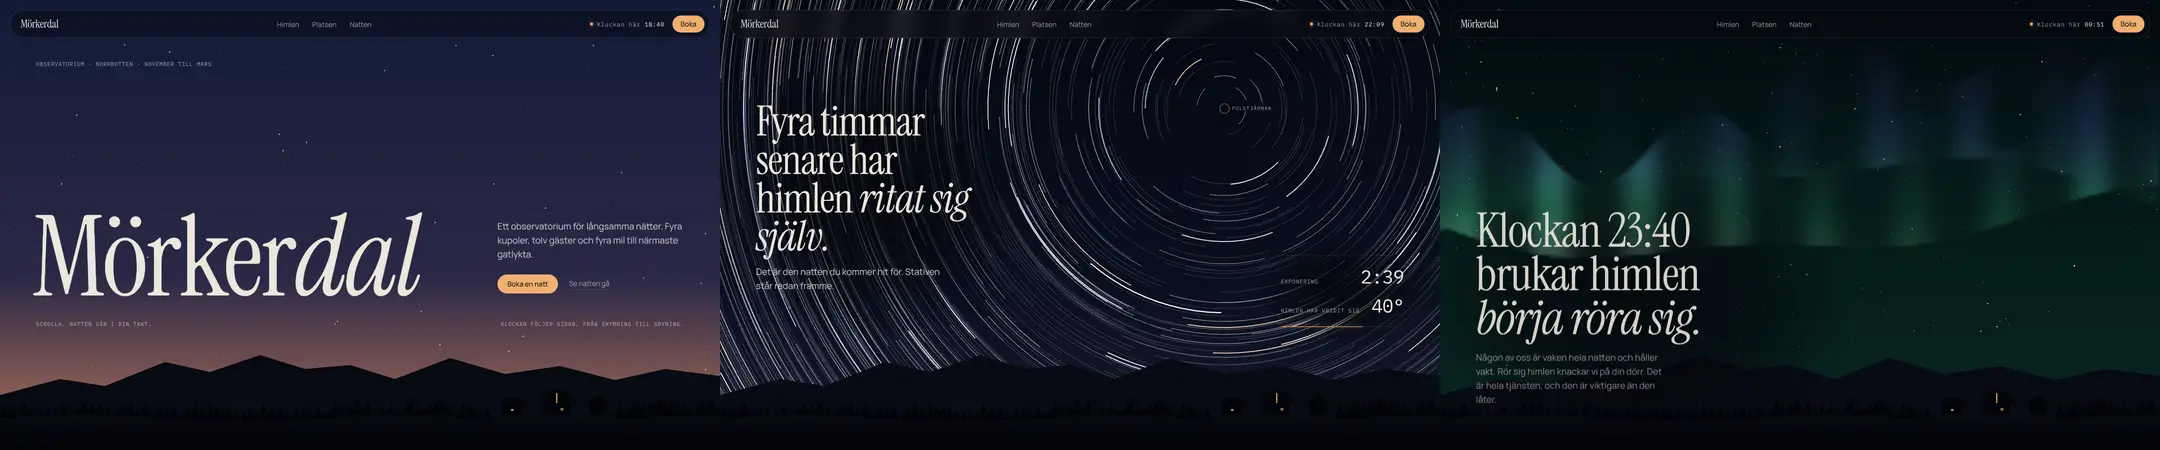
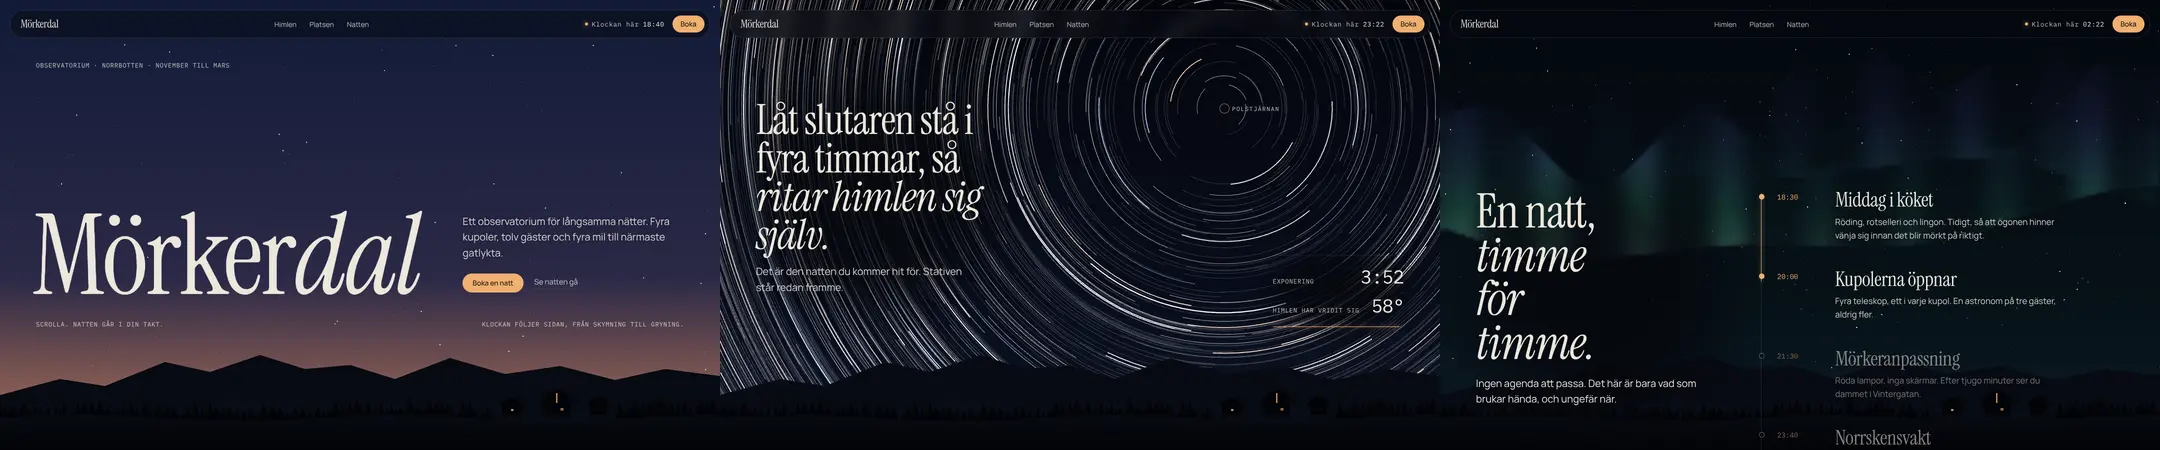
Mörkerdal: make the copy easier to read
Body copy at full ink instead of 62 percent, meta text 11 to 12.5px,
larger program and paper text, unlit program rows at 55 percent,
stronger scrims (also at dawn), and a soft text shadow under copy
over the sky. On phones the Polstjärnan marker moves into the gap
between statement and meter, and the plate caption no longer wraps.

Claude-Session: https://claude.ai/code/session_01XdASbRog22jE6xUYCS6WyS

diff --git a/demos/morkerdal/index.html b/demos/morkerdal/index.html
@@ -15,13 +15,13 @@
   :root {
     --night: #05070d;
     --ink: #ece7dc;
-    --muted: rgba(236, 231, 220, 0.62);
+    --muted: rgba(236, 231, 220, 0.8);
     --line: rgba(236, 231, 220, 0.12);
     --ember: #f0b071;
     --aurora: #8ff0c0;
     --paper: #eee9df;
     --paper-ink: #15161b;
-    --paper-muted: #55565e;
+    --paper-muted: #44454c;
     --serif: 'Instrument Serif', 'Times New Roman', serif;
     --sans: 'Manrope', system-ui, sans-serif;
     --mono: 'IBM Plex Mono', ui-monospace, monospace;
@@ -38,7 +38,7 @@
   html:not(.js) #sky { display: none; }
   .horizon { position: fixed; left: 0; right: 0; bottom: 0; height: 26vh; min-height: 150px; pointer-events: none; }
   .horizon svg { width: 100%; height: 100%; display: block; }
-  #pole { position: fixed; left: 0; top: 0; pointer-events: none; opacity: 0; transition: opacity 0.8s ease; font-family: var(--mono); font-size: 10px; letter-spacing: 0.12em; text-transform: uppercase; color: var(--muted); white-space: nowrap; }
+  #pole { position: fixed; left: 0; top: 0; pointer-events: none; opacity: 0; transition: opacity 0.8s ease; font-family: var(--mono); font-size: 12px; letter-spacing: 0.12em; text-transform: uppercase; color: var(--muted); white-space: nowrap; }
   #pole::before { content: ''; position: absolute; left: -9px; top: -9px; width: 18px; height: 18px; border: 1px solid rgba(240, 176, 113, 0.7); border-radius: 50%; }
   #pole span { position: absolute; left: 16px; top: -6px; }
   #pole.on { opacity: 1; }
@@ -50,7 +50,7 @@
   nav .links a { text-decoration: none; transition: color 0.2s ease; }
   nav .links a:hover { color: var(--ink); }
   nav .right { display: flex; align-items: center; gap: 16px; }
-  .clock { font-family: var(--mono); font-size: 12px; letter-spacing: 0.06em; color: var(--muted); display: flex; align-items: center; gap: 8px; white-space: nowrap; }
+  .clock { font-family: var(--mono); font-size: 13px; letter-spacing: 0.06em; color: var(--muted); display: flex; align-items: center; gap: 8px; white-space: nowrap; }
   .clock::before { content: ''; width: 6px; height: 6px; border-radius: 50%; background: var(--ember); box-shadow: 0 0 10px var(--ember); }
   .clock b { font-weight: 400; color: var(--ink); font-variant-numeric: tabular-nums; }
   .btn { display: inline-flex; align-items: center; gap: 10px; padding: 12px 20px; border-radius: 999px; background: var(--ember); color: #1a1006; font: 500 14px/1 var(--sans); text-decoration: none; border: 0; cursor: pointer; transition: background-color 0.25s ease, transform 0.25s ease; }
@@ -65,15 +65,17 @@
 
   /* clip, not hidden: scrims bleed sideways, and on phones any bleed widens the layout viewport and zooms the page out. clip keeps sticky working */
   main { position: relative; z-index: 2; overflow-x: clip; }
-  .meta { font-family: var(--mono); font-size: 11px; letter-spacing: 0.08em; text-transform: uppercase; color: var(--muted); line-height: 1.6; }
+  .meta { font-family: var(--mono); font-size: 12.5px; letter-spacing: 0.06em; text-transform: uppercase; color: var(--muted); line-height: 1.6; }
   .pad { padding-inline: clamp(20px, 5vw, 80px); }
   h1, h2, .big { font-family: var(--serif); font-weight: 400; letter-spacing: -0.02em; line-height: 0.92; }
   h2 { font-size: clamp(44px, 6.6vw, 104px); }
   h2 em, h1 em, .big em { font-style: italic; }
-  .lede { font-size: clamp(16px, 1.25vw, 19px); line-height: 1.55; color: var(--muted); max-width: 34ch; }
+  .lede { font-size: clamp(17px, 1.4vw, 21px); line-height: 1.55; color: var(--ink); opacity: 0.9; max-width: 36ch; }
+  .lede, .program p, .paper .cols p { text-shadow: 0 1px 12px rgba(5, 7, 13, 0.6); }
+  .paper .cols p { text-shadow: none; }
   .scrim { position: relative; }
-  .scrim::before { content: ''; position: absolute; inset: -22% -16%; z-index: -1; pointer-events: none; background: radial-gradient(closest-side, rgba(5, 7, 13, 0.9), rgba(5, 7, 13, 0.62) 55%, transparent); }
-  .dawn .scrim::before { inset: -30% -40%; background: radial-gradient(closest-side, rgba(12, 16, 34, 0.5), rgba(12, 16, 34, 0.25) 60%, transparent); }
+  .scrim::before { content: ''; position: absolute; inset: -22% -16%; z-index: -1; pointer-events: none; background: radial-gradient(closest-side, rgba(5, 7, 13, 0.94), rgba(5, 7, 13, 0.75) 55%, transparent); }
+  .dawn .scrim::before { inset: -30% -40%; background: radial-gradient(closest-side, rgba(12, 16, 34, 0.72), rgba(12, 16, 34, 0.42) 60%, transparent); }
 
   .rise { opacity: 0; transform: translateY(28px); transition: opacity 1s ease, transform 1.1s cubic-bezier(0.16, 1, 0.3, 1); }
   .rise.in { opacity: 1; transform: none; }
@@ -84,9 +86,9 @@
   .hero .kicker { grid-column: 1 / -1; }
   .hero h1 { grid-column: 1; grid-row: 3; font-size: clamp(76px, 15.5vw, 250px); line-height: 0.8; margin-left: -0.04em; }
   .hero .intro { grid-column: 2; grid-row: 3; align-self: end; justify-self: end; padding-bottom: 1.2vw; }
-  .hero .intro .lede { color: var(--ink); opacity: 0.86; }
+
   .cta { display: flex; align-items: center; gap: 22px; margin-top: 26px; flex-wrap: wrap; }
-  .textlink { font-size: 14px; color: var(--muted); text-decoration: none; border-bottom: 1px solid var(--line); padding-bottom: 3px; transition: color 0.2s ease, border-color 0.2s ease; }
+  .textlink { font-size: 15px; color: var(--muted); text-decoration: none; border-bottom: 1px solid var(--line); padding-bottom: 3px; transition: color 0.2s ease, border-color 0.2s ease; }
   .textlink:hover { color: var(--ink); border-color: var(--ink); }
   .hero .foot { grid-column: 1 / -1; grid-row: 4; display: flex; justify-content: space-between; gap: 24px; margin-top: 36px; }
 
@@ -99,7 +101,7 @@
   html:not(.js) .step + .step { margin-top: 48px; }
   .step .big { font-size: clamp(42px, 5.8vw, 92px); max-width: 12ch; }
   .step p { margin-top: 18px; }
-  .step .lede { color: var(--ink); opacity: 0.88; }
+
   .meter { min-width: 230px; padding: 18px 0 0; border-top: 1px solid var(--line); }
   .meter .row { display: flex; justify-content: space-between; align-items: baseline; gap: 24px; }
   .meter .row + .row { margin-top: 10px; }
@@ -111,12 +113,13 @@
   .paper { position: relative; z-index: 4; background: var(--paper); color: var(--paper-ink); border-radius: 28px; margin: 0 12px; padding-block: clamp(80px, 12vh, 150px) clamp(56px, 8vh, 100px); }
   .paper .grid { display: grid; grid-template-columns: 1.15fr 1fr; gap: clamp(40px, 6vw, 110px); align-items: start; }
   .paper h2 { max-width: 9ch; }
-  .paper .cols { display: grid; grid-template-columns: 1fr 1fr; gap: 32px; margin-top: clamp(48px, 7vh, 88px); font-size: 15px; line-height: 1.6; color: var(--paper-muted); }
-  .paper .cols span { display: block; font-family: var(--mono); font-size: 11px; color: var(--paper-ink); margin-bottom: 12px; }
+  .paper .cols { display: grid; grid-template-columns: 1fr 1fr; gap: 32px; margin-top: clamp(48px, 7vh, 88px); font-size: 17px; line-height: 1.6; color: var(--paper-muted); }
+  .paper .cols span { display: block; font-family: var(--mono); font-size: 12.5px; color: var(--paper-ink); margin-bottom: 12px; }
   .plate { margin: 0; }
   .plate .art { aspect-ratio: 4 / 5; border-radius: 18px; overflow: hidden; background: #070a14; }
   .plate canvas { width: 100%; height: 100%; display: block; }
-  .plate figcaption { display: flex; justify-content: space-between; gap: 16px; margin-top: 14px; font-family: var(--mono); font-size: 11px; letter-spacing: 0.06em; text-transform: uppercase; color: var(--paper-muted); }
+  .plate figcaption span:last-child { white-space: nowrap; }
+  .plate figcaption { display: flex; justify-content: space-between; gap: 16px; margin-top: 14px; font-family: var(--mono); font-size: 12.5px; letter-spacing: 0.05em; text-transform: uppercase; color: var(--paper-muted); }
   .stats { display: grid; grid-template-columns: repeat(4, 1fr); margin-top: clamp(64px, 10vh, 120px); border-top: 1px solid rgba(21, 22, 27, 0.14); }
   .stats div { padding: 22px 20px 0 0; }
   .stats div + div { padding-left: 20px; border-left: 1px solid rgba(21, 22, 27, 0.14); }
@@ -137,26 +140,26 @@
   .program { list-style: none; padding: 0; position: relative; --p: 0; }
   .program::before, .program::after { content: ''; position: absolute; left: 0; top: 8px; bottom: 8px; width: 1px; background: var(--line); }
   .program::after { background: var(--ember); bottom: auto; height: calc(var(--p) * (100% - 16px)); box-shadow: 0 0 8px var(--ember); }
-  .program li { position: relative; display: grid; grid-template-columns: 96px 1fr; gap: 20px; padding: 0 0 clamp(36px, 6vh, 64px) 32px; opacity: 0.38; transition: opacity 0.6s ease; }
+  .program li { position: relative; display: grid; grid-template-columns: 96px 1fr; gap: 20px; padding: 0 0 clamp(36px, 6vh, 64px) 32px; opacity: 0.55; transition: opacity 0.6s ease; }
   .program li::before { content: ''; position: absolute; left: -4px; top: 9px; width: 9px; height: 9px; border-radius: 50%; background: var(--night); border: 1px solid var(--muted); transition: background-color 0.4s ease, border-color 0.4s ease; }
   .program li.lit { opacity: 1; }
   .program li.lit::before { background: var(--ember); border-color: var(--ember); }
   html:not(.js) .program li { opacity: 1; }
-  .program time { font-family: var(--mono); font-size: 13px; padding-top: 6px; color: var(--ember); }
+  .program time { font-family: var(--mono); font-size: 14px; padding-top: 6px; color: var(--ember); }
   .program h3 { font-family: var(--serif); font-weight: 400; font-size: clamp(30px, 2.8vw, 44px); line-height: 1; letter-spacing: -0.01em; }
-  .program p { margin-top: 10px; color: var(--muted); line-height: 1.6; max-width: 44ch; }
+  .program p { margin-top: 10px; font-size: 17px; color: var(--ink); opacity: 0.88; line-height: 1.6; max-width: 44ch; }
 
   /* ---------- 6. dawn ---------- */
   .dawn { min-height: 100svh; display: flex; flex-direction: column; justify-content: center; padding-top: 140px; padding-bottom: calc(26vh + 24px); }
   .dawn .inner { max-width: 760px; }
   .dawn h2 { font-size: clamp(56px, 9vw, 150px); }
-  .dawn .lede { margin-top: 22px; color: var(--ink); opacity: 0.86; max-width: 46ch; }
+  .dawn .lede { margin-top: 22px; max-width: 46ch; }
   form { display: grid; grid-template-columns: 1fr 1fr 1.4fr auto; gap: 10px; margin-top: 40px; }
   label { display: block; }
   label .meta { display: block; margin-bottom: 8px; }
-  input, select { width: 100%; height: 48px; background: rgba(5, 7, 13, 0.55); border: 1px solid rgba(236, 231, 220, 0.2); border-radius: 12px; padding: 0 14px; color: var(--ink); font: 400 15px var(--sans); backdrop-filter: blur(10px); -webkit-backdrop-filter: blur(10px); transition: border-color 0.2s ease; }
+  input, select { width: 100%; height: 48px; background: rgba(5, 7, 13, 0.7); border: 1px solid rgba(236, 231, 220, 0.2); border-radius: 12px; padding: 0 14px; color: var(--ink); font: 400 15px var(--sans); backdrop-filter: blur(10px); -webkit-backdrop-filter: blur(10px); transition: border-color 0.2s ease; }
   input:hover, select:hover { border-color: rgba(236, 231, 220, 0.4); }
-  input::placeholder { color: rgba(236, 231, 220, 0.45); }
+  input::placeholder { color: rgba(236, 231, 220, 0.6); }
   form .btn { height: 48px; align-self: end; padding-inline: 24px; }
   .sent { margin-top: 16px; min-height: 1.6em; }
   footer { position: relative; z-index: 2; display: flex; justify-content: space-between; gap: 20px; flex-wrap: wrap; padding-block: 20px 24px; border-top: 1px solid var(--line); background: #020306; }
@@ -164,6 +167,7 @@
   @media (max-width: 860px) {
     nav { top: 12px; left: 12px; right: 12px; padding-left: 16px; }
     nav .links { display: none; }
+    #pole span { left: auto; right: 16px; }
     nav .right { gap: 10px; }
     .hero { grid-template-columns: 1fr; grid-template-rows: auto 1fr auto auto auto; padding-top: 104px; }
     .hero h1 { grid-row: 3; }
@@ -485,7 +489,8 @@
     canvas.width = W * dpr; canvas.height = H * dpr;
     ctx.setTransform(dpr, 0, 0, dpr, 0, 0);
     aur.width = Math.ceil(W / 6); aur.height = Math.ceil(H / 6);
-    pole = W > 860 ? { x: W * 0.7, y: H * 0.24 } : { x: W * 0.62, y: H * 0.2 };
+    // phones: the pole sits in the gap between the statement (top) and the meter (bottom)
+    pole = W > 860 ? { x: W * 0.7, y: H * 0.24 } : { x: W * 0.68, y: H * 0.48 };
     R = Math.hypot(Math.max(pole.x, W - pole.x), Math.max(pole.y, H - pole.y)) * 1.02;
     poleEl.style.transform = `translate(${pole.x}px, ${pole.y}px)`;
   }
